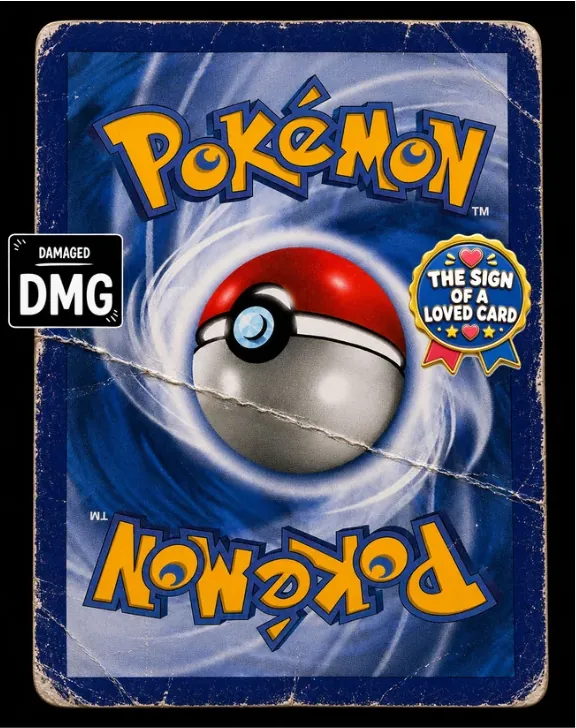
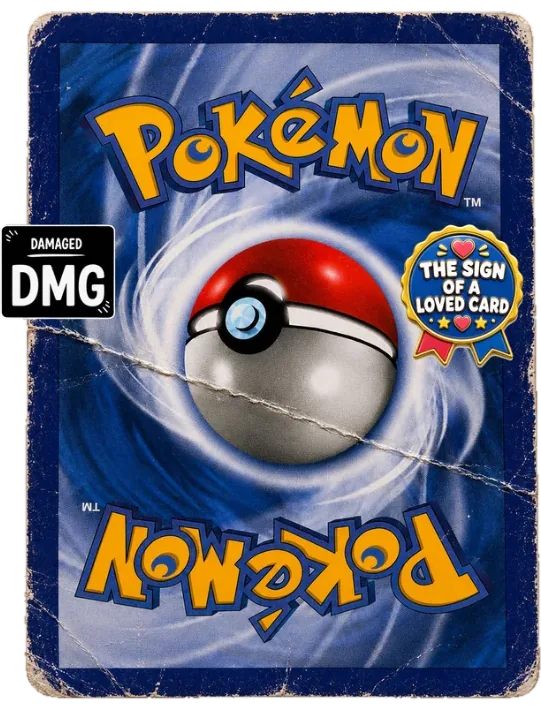
Condition guide: cards cut out of the black, badges kept, split bar trimmed to the card

diff --git a/home.html b/home.html
@@ -186,13 +186,13 @@
     }
     .flip:active { cursor: grabbing; }
     .flip:focus-visible { outline: 3px solid var(--red); outline-offset: 4px; border-radius: 14px; }
-    .flip-inner { position: relative; display: block; aspect-ratio: 576 / 728; transform-style: preserve-3d; transition: transform 0.6s cubic-bezier(0.2, 0.7, 0.2, 1); }
+    .flip-inner { position: relative; display: block; aspect-ratio: var(--ar, 540 / 711); transform-style: preserve-3d; transition: transform 0.6s cubic-bezier(0.2, 0.7, 0.2, 1); }
     .flip.dragging .flip-inner { transition: none; }
     .flip-face {
-      position: absolute; inset: 0; width: 100%; height: 100%; border-radius: 14px; overflow: hidden; background: #000;
-      backface-visibility: hidden; -webkit-backface-visibility: hidden; box-shadow: 0 14px 30px rgba(20, 10, 10, 0.22);
+      position: absolute; inset: 0; width: 100%; height: 100%;
+      backface-visibility: hidden; -webkit-backface-visibility: hidden;
     }
-    .flip-face img { display: block; width: 100%; height: 100%; object-fit: cover; pointer-events: none; -webkit-user-drag: none; }
+    .flip-face img { display: block; width: 100%; height: 100%; object-fit: contain; pointer-events: none; -webkit-user-drag: none; filter: drop-shadow(0 10px 14px rgba(20, 10, 10, 0.25)); }
     .flip-back { transform: rotateY(180deg); }
     .flip-wrap figcaption { margin-top: 12px; }
     .flip-wrap figcaption strong { display: block; font-size: 1.02rem; }
@@ -469,27 +469,27 @@
       <div class="flip-grid">
         <figure class="flip-wrap">
           <button type="button" class="flip" aria-pressed="false" aria-label="Near Mint · Lightly Played: show the back">
-            <span class="flip-inner">
-              <span class="flip-face flip-front"><img src="/cond-img/nm-lp-front.webp" width="576" height="728" alt="Example card, top half Near Mint and bottom half Lightly Played, with close-ups of the corners, front" decoding="async"></span>
-              <span class="flip-face flip-back"><img src="/cond-img/nm-lp-back.webp" width="576" height="728" alt="Example card, top half Near Mint and bottom half Lightly Played, with close-ups of the corners, back" decoding="async"></span>
+            <span class="flip-inner" style="--ar: 524 / 716">
+              <span class="flip-face flip-front"><img src="/cond-img/nm-lp-front.webp" width="524" height="716" alt="Example card, top half Near Mint and bottom half Lightly Played, with close-ups of the corners, front" decoding="async"></span>
+              <span class="flip-face flip-back"><img src="/cond-img/nm-lp-back.webp" width="524" height="716" alt="Example card, top half Near Mint and bottom half Lightly Played, with close-ups of the corners, back" decoding="async"></span>
             </span>
           </button>
           <figcaption><strong>Near Mint · Lightly Played</strong><span>Top half Near Mint, bottom half Lightly Played</span></figcaption>
         </figure>
         <figure class="flip-wrap">
           <button type="button" class="flip" aria-pressed="false" aria-label="Moderately Played · Heavily Played: show the back">
-            <span class="flip-inner">
-              <span class="flip-face flip-front"><img src="/cond-img/mp-hp-front.webp" width="576" height="728" alt="Example card, top half Moderately Played and bottom half Heavily Played, with close-ups of the corners, front" decoding="async"></span>
-              <span class="flip-face flip-back"><img src="/cond-img/mp-hp-back.webp" width="576" height="728" alt="Example card, top half Moderately Played and bottom half Heavily Played, with close-ups of the corners, back" decoding="async"></span>
+            <span class="flip-inner" style="--ar: 540 / 711">
+              <span class="flip-face flip-front"><img src="/cond-img/mp-hp-front.webp" width="540" height="711" alt="Example card, top half Moderately Played and bottom half Heavily Played, with close-ups of the corners, front" decoding="async"></span>
+              <span class="flip-face flip-back"><img src="/cond-img/mp-hp-back.webp" width="540" height="711" alt="Example card, top half Moderately Played and bottom half Heavily Played, with close-ups of the corners, back" decoding="async"></span>
             </span>
           </button>
           <figcaption><strong>Moderately Played · Heavily Played</strong><span>Top half Moderately Played, bottom half Heavily Played</span></figcaption>
         </figure>
         <figure class="flip-wrap">
           <button type="button" class="flip" aria-pressed="false" aria-label="Damaged: show the back">
-            <span class="flip-inner">
-              <span class="flip-face flip-front"><img src="/cond-img/dmg-front.webp" width="576" height="728" alt="Example Damaged card, with close-ups of the worn corners and crease, front" decoding="async"></span>
-              <span class="flip-face flip-back"><img src="/cond-img/dmg-back.webp" width="576" height="728" alt="Example Damaged card, with close-ups of the worn corners and crease, back" decoding="async"></span>
+            <span class="flip-inner" style="--ar: 541 / 705">
+              <span class="flip-face flip-front"><img src="/cond-img/dmg-front.webp" width="541" height="705" alt="Example Damaged card, with close-ups of the worn corners and crease, front" decoding="async"></span>
+              <span class="flip-face flip-back"><img src="/cond-img/dmg-back.webp" width="541" height="705" alt="Example Damaged card, with close-ups of the worn corners and crease, back" decoding="async"></span>
             </span>
           </button>
           <figcaption><strong>Damaged</strong><span>The whole card</span></figcaption>
